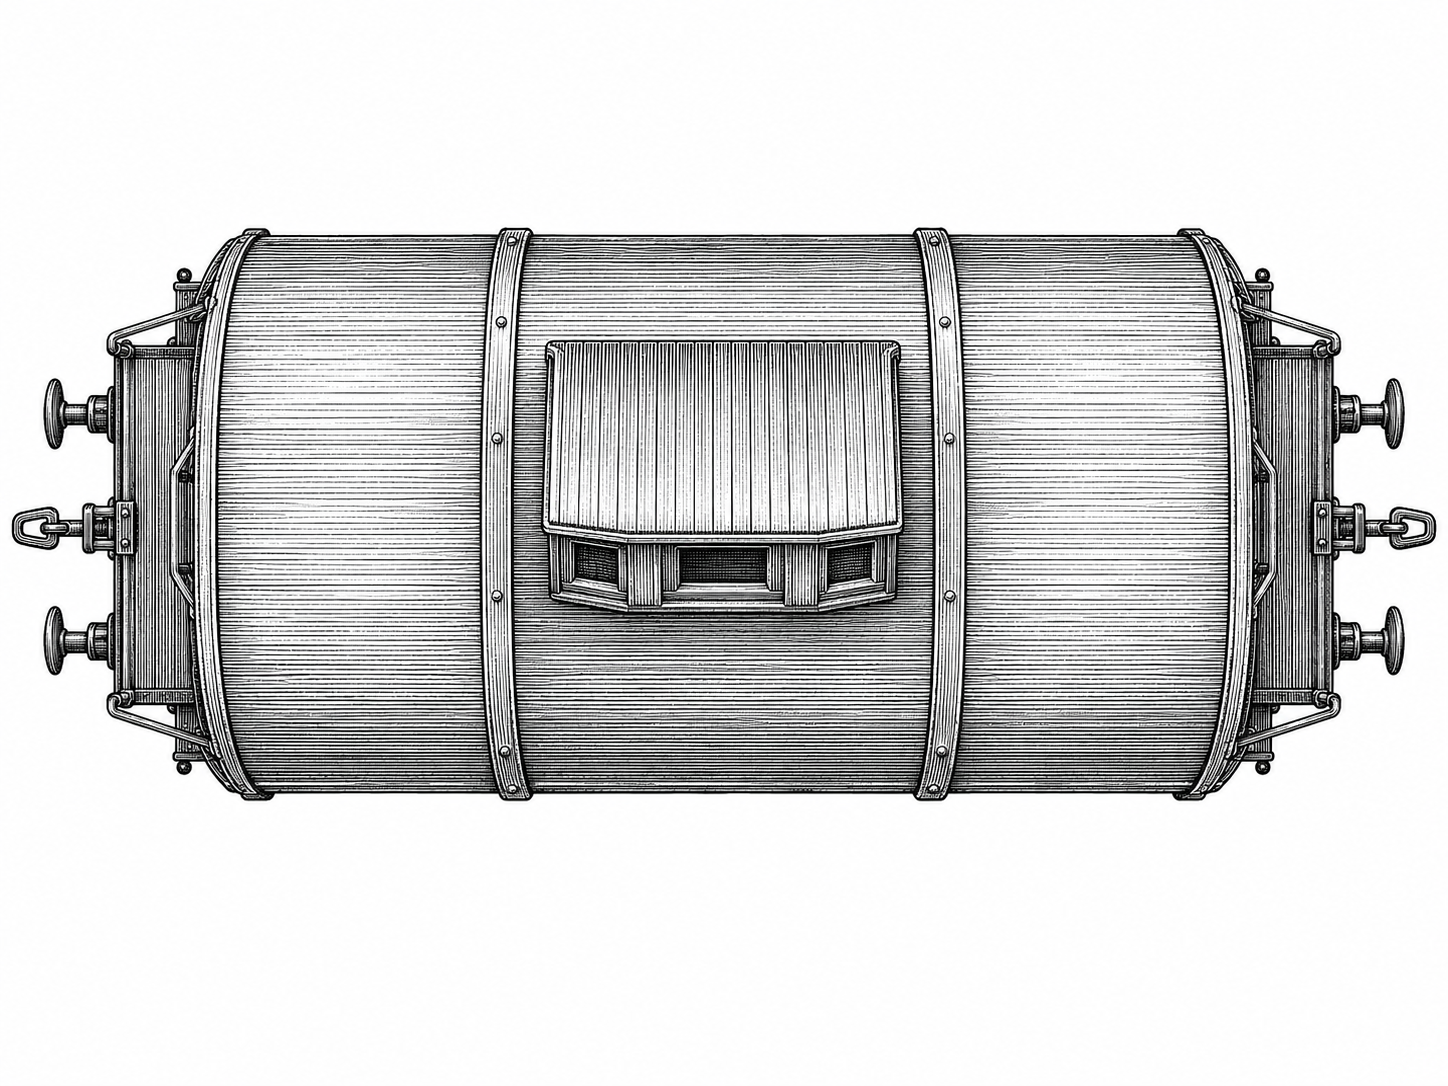
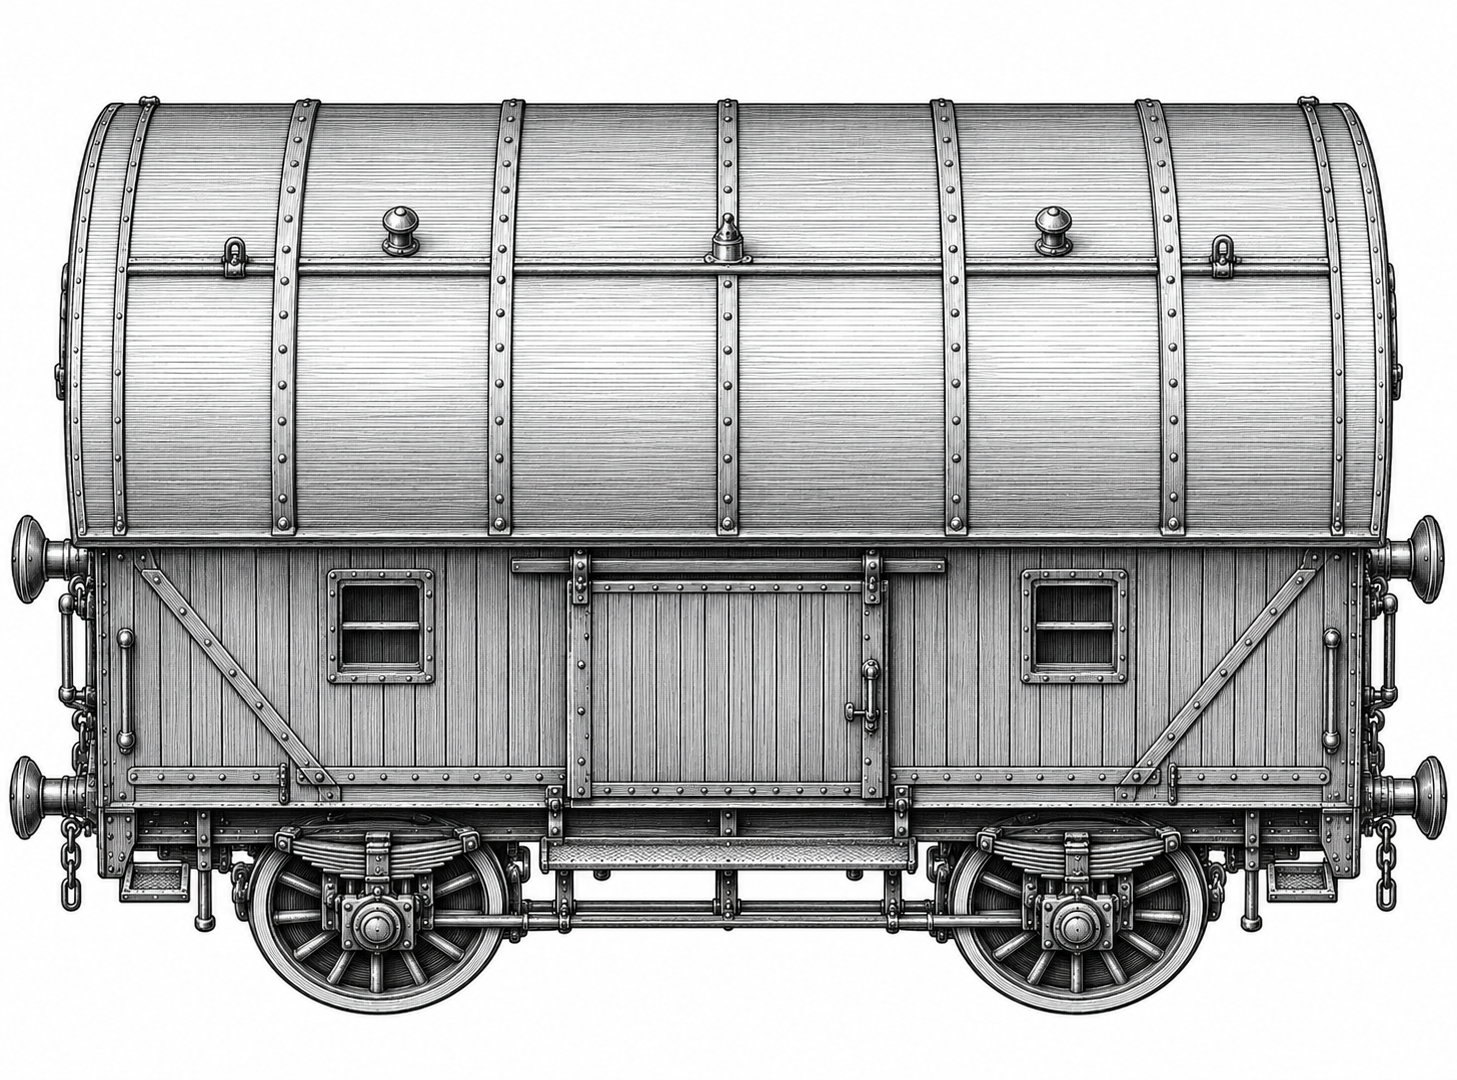
Les convois se tiennent debout sur leur rail
Vincent a redessiné les trois planches en ÉLÉVATION — toit, joue, roues — et
c'est le montage qui change avec elles. « Pas très fan, les trains sont
toujours vus de haut » : c'était sans issue par le code, un flanc peint à la
main sous une caisse ne fait, sans dessin dessus, qu'un pan de couleur uni. Il
disparaît.

Un véhicule est désormais un panneau DEBOUT : son arête basse suit la voie
projetée — donc il s'inscrit dans les courbes case par case, exactement comme
avant — et il monte à la verticale de l'écran. C'est exact pour cette
projection, qui n'aplatit que le sol et jamais les verticales : c'est déjà la
règle qui donne aux quais leur face avant et aux signaux leur mât.

SA HAUTEUR NE SE RÈGLE PAS, ELLE SE LIT. La chaîne rogne chaque planche à la
boîte de son sujet, et la case fait 35 unités de long : la hauteur EST le
rapport de la planche. Locomotive 1,477:1 → 23,7 unités ; fourgon 1,562:1 →
22,4 ; voiture longue 2,000:1 → 17,5. Le véhicule le plus long en vrai est le
plus bas à l'écran, sans qu'on décide rien et sans qu'un troisième réglage
existe.

DEUX BOGUES SONT TOMBÉS AVEC. La couronne ambre du convoi retenu était peinte
en coordonnées de PLAN, sans passer par la projection : elle tombait à côté de
son train depuis que le poste se regarde de biais. Elle est projetée, et
devient une nappe de lumière au pied de la rame — un cerne ne dirait plus rien
autour d'un objet debout. Et la pastille d'heure partait de la voie à 32
[…]

diff --git a/PORTAGE-GODOT.md b/PORTAGE-GODOT.md
@@ -896,6 +896,45 @@ Il suit une règle : **ce qui se vérifie tout seul d'abord**.
    Le doigt n'a coûté qu'une ligne : `Ob.inv(m − decalage())`. Toutes les zones
    de clic restent écrites dans le plan, et aucune n'a bougé.
 
+   **LES VÉHICULES SE TIENNENT DEBOUT, 9 septembre 2026.** L'oblique posée, les
+   convois restaient des TOITS — « pas très fan, les trains sont toujours vus
+   de haut » (Vincent) — et c'était sans issue par le code : un flanc peint à
+   la main sous la caisse ne fait, sans dessin dessus, qu'un pan de couleur
+   uni (essayé à 5 puis à 9, revenu à 5, puis retiré). Vincent a redessiné les
+   trois planches en ÉLÉVATION — toit, joue, roues — et c'est le montage qui
+   change avec elles.
+
+   Un véhicule est désormais un panneau DEBOUT : son arête basse suit la voie
+   projetée, donc il s'inscrit dans les courbes case par case comme avant, et
+   il monte à la verticale de l'écran. C'est exact pour cette projection, qui
+   n'aplatit que le sol et jamais les verticales.
+
+   SA HAUTEUR NE SE RÈGLE PAS, ELLE SE LIT. La chaîne rogne chaque planche à la
+   boîte de son sujet ; la case fait 35 unités de long ; la hauteur est donc le
+   rapport de la planche, et rien d'autre. Locomotive 1,477:1 → 23,7 ; fourgon
+   1,562:1 → 22,4 ; voiture longue 2,000:1 → 17,5. Le véhicule le plus long est
+   le plus bas, sans qu'on décide rien.
+
+   Deux corrections tombées avec : la couronne ambre du convoi retenu était
+   peinte en coordonnées de PLAN, sans passer par la projection — elle tombait
+   à côté de son train depuis l'oblique ; elle est maintenant une nappe de
+   lumière au pied de la rame. Et la pastille d'heure partait de la voie à 32
+   unités, ce qui tombait en plein toit depuis que la caisse se tient debout :
+   elle part du sommet de la machine.
+
+   **Attention au cache d'import.** Remplacer un PNG sous `jeu/illustrations/`
+   ne suffit pas : une exécution (hors éditeur) lit la texture importée dans
+   `.godot/imported/`, et affiche donc l'ANCIENNE planche. Après
+   `tools/illustrations.sh`, il faut `godot --headless --path . --import`.
+   J'y ai perdu une capture entière, à me demander pourquoi le montage neuf
+   rendait les vieux tonneaux.
+
+   L'écran d'attente a suivi : convoi debout sur sa voie, et la voie mesurée en
+   FRACTIONS DE LA CASE — « tu peux faire les rails plus larges pour que cela
+   s'adapte bien au train » (Vincent). Le convoi avait grandi, la voie non.
+   Changer la taille du convoi déplace la voie avec lui ; il n'y a plus deux
+   réglages à tenir d'accord.
+
    `STATION_REMISE=<étoiles>[,diamant]` rejoue la remise sur la gare courante,
    sans service et sans rien écrire : le joueur scripté n'a jamais fait de
    sans-faute, et sans ce crochet le deuxième temps ne se vérifierait qu'à la
